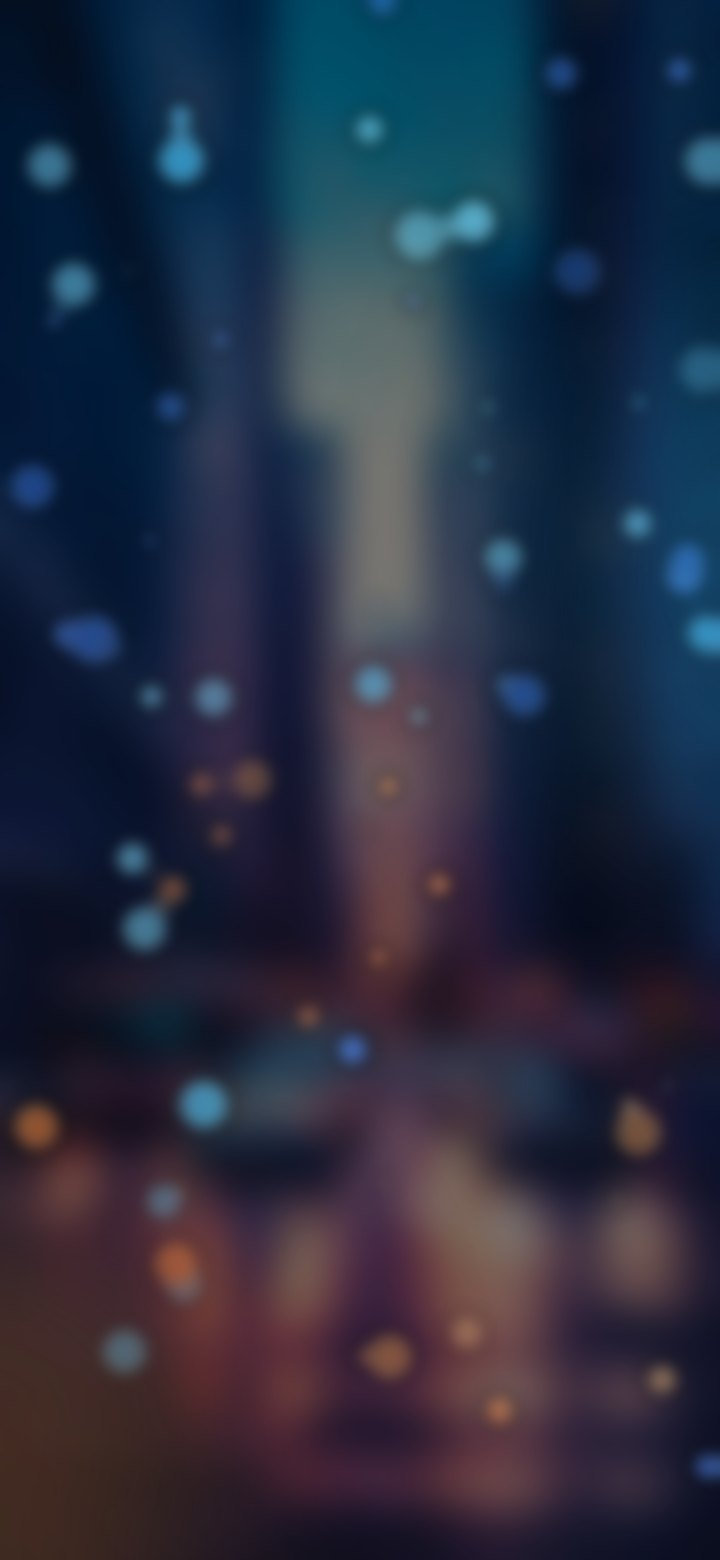
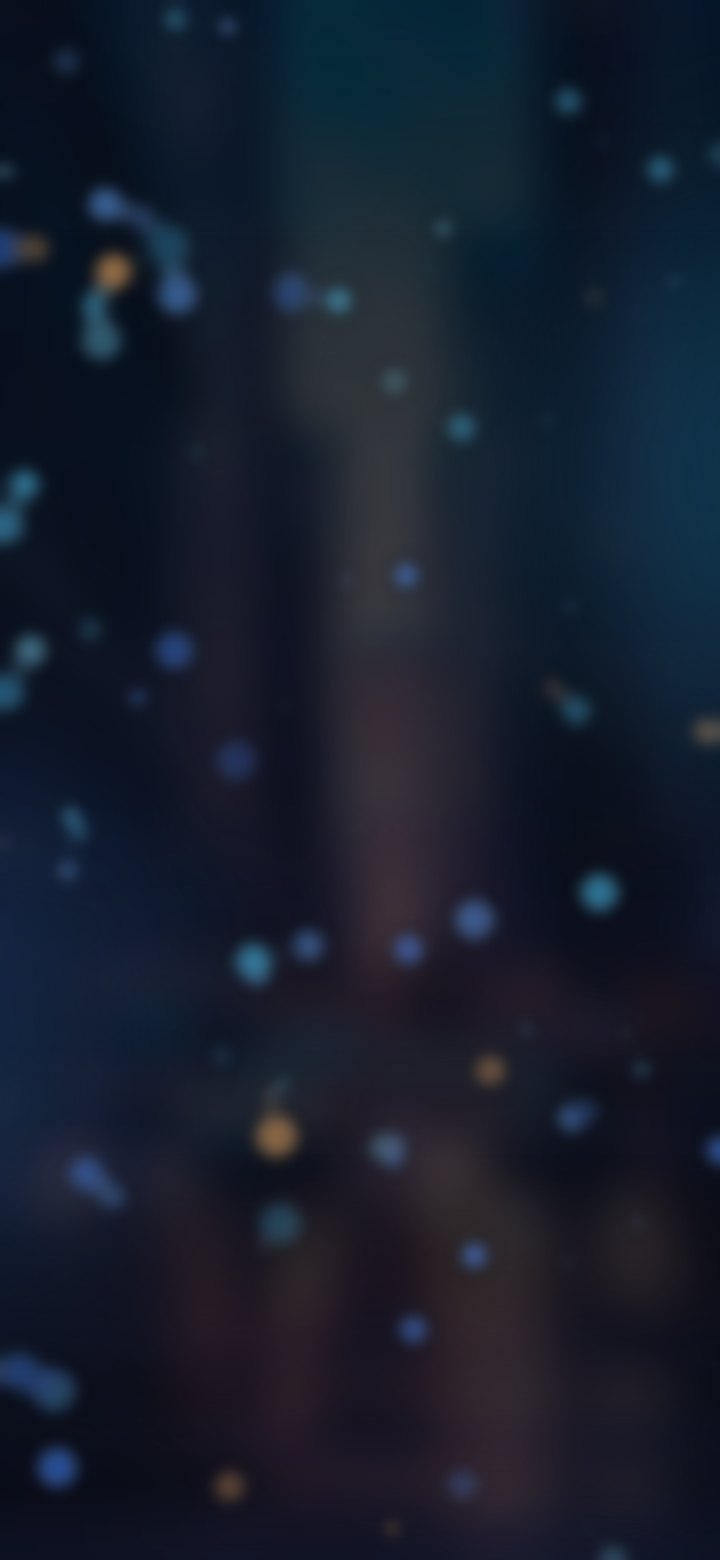
## Sfondo uniforme e vetro trasparente - Sfondo: foto notte rielaborata con tono blu-notte uniforme dall'alto in basso (niente più zona calda in fondo) e velo scuro costante, così le card in basso hanno lo stesso colore di quelle in alto. - Card categorie: riempimento ridotto a quasi zero (vetro ver
Note:
- You are currently working in a dev (or preview) environment.
- Once you make decent progress, you can deploy your app in production and generate iOS and Android builds: Click on publish (visible on right-top of the screen) → Deploy your app → Generate iOS and Android builds.
- The app preview in the browser takes 20-30 seconds to refresh.
- To view the app on mobile, scan the QR code beside the preview panel — this redirects you to the Expo Go app where you can test your app.
- However, some native features like notifications, audio, camera can only be tested on real devices after you deploy and generate a build.

Emergent-Commit-Key: b0cd45703483e64909481fe1044c37e74d222e1bf669f941e3eaf7fc715a673c

diff --git a/frontend/src/components/glass/cards.tsx b/frontend/src/components/glass/cards.tsx
@@ -56,12 +56,9 @@ export function GlassBackdrop({ style }: { style?: StyleProp<ViewStyle> }) {
     return (
       <View pointerEvents="none" style={[StyleSheet.absoluteFill, { overflow: "hidden", backgroundColor: colors.surface }, style]}>
         <Image source={BOKEH} style={StyleSheet.absoluteFill} contentFit="cover" contentPosition="center" transition={300} />
-        {/* Scrim leggero: tiene i testi leggibili senza spegnere il bokeh. */}
-        <LinearGradient
-          colors={[withAlpha(colors.surface, 0.70), withAlpha(colors.surface, 0.38), withAlpha(colors.surface, 0.50)]}
-          locations={[0, 0.45, 1]}
-          style={StyleSheet.absoluteFill}
-        />
+        {/* Scrim UNIFORME: stessa tinta su tutta l'altezza, così le card in basso
+            hanno lo stesso colore di quelle in alto. */}
+        <View style={[StyleSheet.absoluteFill, { backgroundColor: withAlpha(colors.surface, 0.40) }]} />
       </View>
     );
   }
@@ -178,25 +175,27 @@ export function GlassPressable({
       >
         {blur ? (
           <BlurView
-            intensity={14}
+            intensity={18}
             tint={tint}
             experimentalBlurMethod="dimezisBlurView"
             style={[StyleSheet.absoluteFill, { borderRadius: r }]}
           />
         ) : null}
-        {/* Vetro smerigliato: opacatura frosted (tinta blu-notte + velo bianco), poca sfocatura. */}
+        {/* Vetro VERO: quasi trasparente, il fondo passa attraverso; solo un
+            velo freddo appena percettibile + riflesso in alto e bordo luminoso. */}
         <View
           pointerEvents="none"
           style={[StyleSheet.absoluteFill, { borderRadius: r, backgroundColor: colors.glassTint }]}
         />
         <LinearGradient
           pointerEvents="none"
-          colors={[colors.glassFrost, withAlpha(colors.surface, isDark ? 0.22 : 0)]}
+          colors={[colors.glassFrost, "transparent"]}
+          locations={[0, 0.7]}
           start={{ x: 0, y: 0 }}
-          end={{ x: 0.6, y: 1 }}
+          end={{ x: 0.5, y: 1 }}
           style={[StyleSheet.absoluteFill, { borderRadius: r }]}
         />
-        <Sheen radius={r} strength={1} />
+        <Sheen radius={r} strength={0.9} />
         {lightFrom ? (
           <LinearGradient
             pointerEvents="none"
@@ -230,7 +229,7 @@ export function GlassPressable({
           // Luce del colore dell'icona che entra dal bordo (in alto a sinistra) e sfuma.
           <LinearGradient
             pointerEvents="none"
-            colors={[withAlpha(accent, isDark ? 0.16 : 0.10), withAlpha(accent, 0)]}
+            colors={[withAlpha(accent, isDark ? 0.07 : 0.06), withAlpha(accent, 0)]}
             locations={[0, 0.7]}
             start={{ x: 0, y: 0 }}
             end={{ x: 1, y: 1 }}

diff --git a/frontend/src/theme.ts b/frontend/src/theme.ts
@@ -60,8 +60,8 @@ const darkBase = {
   glassSheen: "rgba(255,255,255,0.13)",     // riflesso frosted dall'alto
   // Vetro "blu notte" delle card selezionabili (interessi): tinta fredda che
   // lascia passare la luce del bokeh; bordo azzurrino appena luminoso.
-  glassTint: "rgba(120,175,255,0.10)",
-  glassFrost: "rgba(255,255,255,0.13)",     // velo smerigliato (opacatura) sulle card
+  glassTint: "rgba(120,175,255,0.045)",
+  glassFrost: "rgba(255,255,255,0.06)",     // velo smerigliato (opacatura) sulle card
   glassTintBorder: "rgba(170,215,255,0.26)",
   glassRing: "rgba(255,255,255,0.38)",      // anello selettore inattivo
   // Reading experience: bianco caldo per titolo/testo, tinta notte sull'immagine.

diff --git a/memory/PRD.md b/memory/PRD.md
@@ -49,3 +49,4 @@
 - Replica fedele del riferimento: sfondo bokeh notturno (asset `assets/images/glass-bokeh.jpg`, generato) con scrim leggero; card in vetro blu-notte traslucido (`glassTint`/`glassTintBorder` in theme) con luce d'accento forte da selezionate (bordo 1.5px, glow esterno, luce interna); tile compatte 3 colonne (gap 12, radius 22); mode card con orb cyan + anello/check (anello nascosto sotto 380dp); titolo responsive su una riga con "leggere?" azzurro pallido (`cyanPale`).
 - Sfondo ora è una foto reale di città di notte (Unsplash, ritagliata, saturata, blur 20px, bokeh caldi/blu) con overlay scuro; Spazio = pianeta con anello (Ionicons planet-outline, via `CatGlyph`/`set`), Animali = zampa piena; gradienti icone saturi; ogni tile ha bordo+glow nel colore della propria icona (`accentIdle`).
 - Tile categorie: altezza fissa 104 (tutte uguali), contenuto centrato (orb → nome → conteggio), chevron rimosso, badge check in alto a destra da selezionata; vetro più smerigliato (`glassFrost`) e blur ridotto (14). Testing agent iteration_22: PASS.
+- Sfondo uniforme (foto notte con tono navy equalizzato, bokeh distribuito, scrim uniforme 0.40) e card categorie quasi trasparenti (glassTint 0.045, frost 0.06, tinta accento interna 0.07): vetro vero con bordo/glow colorato.
